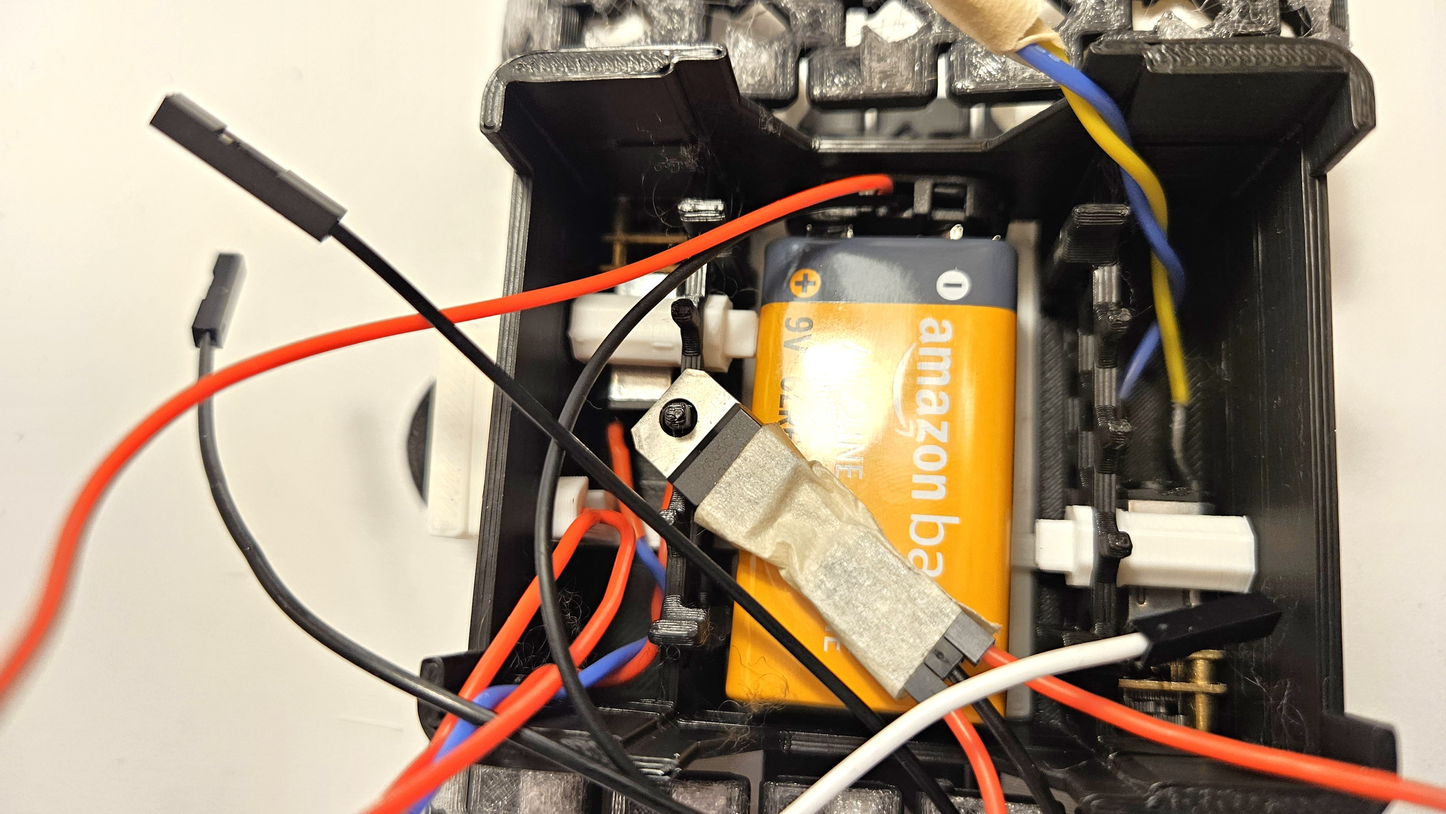
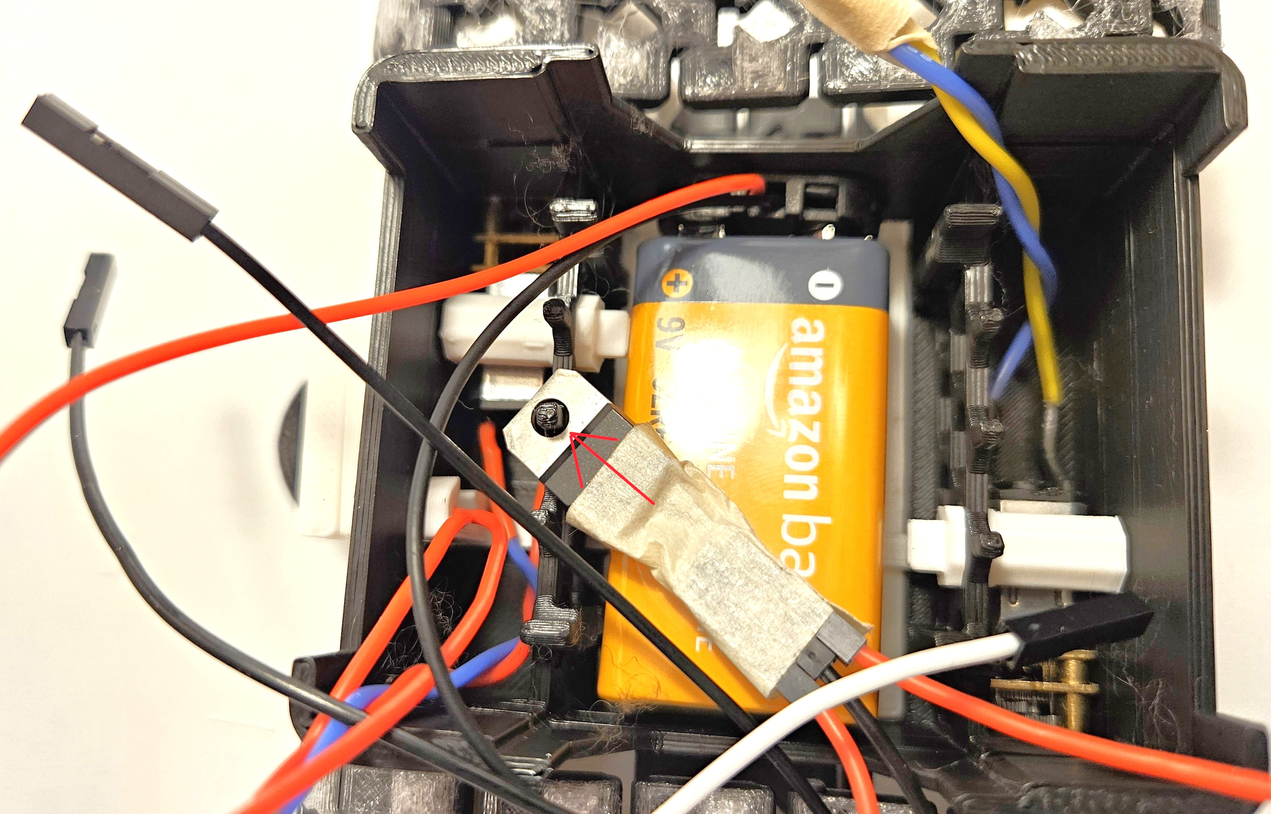
finish power.md updates for v3

diff --git a/lessons/assembly/power.md b/lessons/assembly/power.md
@@ -33,7 +33,7 @@ Make a note of which direction is off and on.  Off will be when the switch is in
   
 Now push the power switch and wires into the rectangular slot, pushing the red wires against the angled piece.  The red wires should make a sharp right angle inside the switch holder.  This helps hold the wires in place.  This can be a tight fit. See more instructions after picture if struggling.
 
-<img alt="Switch in switch holder" src="../images/assembly/v3/PowerSwitchInstall3.jpg" width="500"/>
+<img alt="Switch in switch holder" src="../images/assembly/v3/PowerSwitchInstall3.jpg" width="250"/>
 
 Fitting the power switch in the switch holder can be a very tight fit.  Borrow a pair of pliers or use two strong thumbs on each side of the black switch to push it into place.
 
@@ -86,7 +86,7 @@ At this time, make sure the switch is turned off.  To turn off the power switch,
 - 10cm White Female to Female wire
 - 10cm 3 way connector
 
-<img alt="Positive Power Parts" src="../images/assembly/v3/PositivePowerParts.jpg" width="500"/>
+<img alt="Positive Power Parts" src="../images/assembly/v3/PositivePowerParts.jpg" width="250"/>
 
 Take the two 10cm female to female wires and connect them to the 3 way connector.     
 
@@ -115,7 +115,7 @@ Grab the voltage regulator and 10cm red female to female wire.
 
 The 3 pins from left to right are our input, ground, and output as seen in the picture above.
 
-Connect your red female to female wire to the right most pin.  If the wire is too tight to fit on or too lose try rotating the wire connector 90 degrees and re-insert the wire onto the voltage regulator pin.  Try to push the wire up onto the pin as much as you can but be careful not to bend the pins on the voltage regulator or poke yourself. 
+Connect your red female to female wire to the right most pin.  If the wire is too tight to fit on or too lose try rotating the wire connector 90 degrees and re-insert the wire onto the voltage regulator pin.  Try to push the wire up onto the pin as much as you can but be careful not to bend the pins on the voltage regulator or poke yourself. If you do slightly bend the pins, it's not a big deal, just gently bend them back flat.  Constantly bending the pins can weaken them.
 
 <img alt="Voltage Regulator Right wire connected" src="../images/assembly/v3/VoltageRegulatorPositive.jpg" width="250"/>
 
@@ -136,26 +136,29 @@ Now wrap the tape around to cover the back as well as seen in the image below.  
 <img alt="Voltage Regulator input wire connected" src="../images/assembly/v3/VoltageRegulatorBatteryConnnector5.jpg" width="500" />
 
 
-<img alt="Chassis, Voltage Reg, Y wire" src="../images/assembly/power_regulator.jpg" width="500"/>
+### Battery Install
 
-Connect the single end of the red Y wire to the far right of the voltage regulator.  This is the voltage output pin.  Push the female end up as far as you can, usually up to where the pin enlarges.
-Be careful not to bend or break the pins on the voltage regulator.  If you do slightly bend the pins, it's not a big deal, just gently bend them back flat.  Constantly bending the pins can weaken them.
+Make sure your power switch is still in the off position. Grab your battery and connect it to the battery connector:
 
-<img alt="Voltage Reg, Y wire" src="../images/assembly/power_regulator_positive_y.jpg" width="500"/>
+<img alt="Battery Connected" src="../images/assembly/v3/Battery1.jpg" width="500" />
 
-Connect one of the black ground wires from the battery connector to the middle pin.
+Now let's go ahead and install the battery.  While the top pico plate is off, it's easiest to install the battery through the top.    
+<details>
+<summary>Removing the Battery</summary>
+After your Rover is built, you will be accessing the battery through the bottom by removing switch key. To allow the battery door to come off.  
+</details>  
 
-<img alt="Voltage Reg Ground" src="../images/assembly/power_regulator_negative_wire.jpg" width="500"/>
+Put the battery flat on top of the battery door as you see in the picture below.  Make sure no wires are under the battery.
 
-Connect the 10cm red wire that comes from the power switch to the far left pin on the regulator.
+<img alt="Battery In Chassis" src="../images/assembly/v3/Battery2.jpg" width="500" />
 
-<img alt="Voltage Reg Input" src="../images/assembly/power_regulator_power_switch.jpg" width="500"/>
 
-<img alt="Voltage Reg Input" src="../images/assembly/power_regulator_power_switch_2.jpg" width="500"/>
+Now move the voltage regulator on top of the battery.  Use one of the pegs on the chassis to set the voltage regulator on. Allow the peg from the chassis to go through the hole in the top of the voltage regulator as seen below. Make sure the voltage regulator is flat with it's taped pins over the battery.  
 
-Carefully move the voltage regulator on top of the battery without disconnecting any of the wires.  The hole on top of the voltage regulator should go on one of the posts beside the battery.
+<img alt="Voltage Regulator On Battery" src="../images/assembly/v3/Battery3.jpg" width="500" />
 
-<img alt="Voltage Reg In Chassis" src="../images/assembly/power_regulator_in_chassis.jpg" width="500"/>
+This completes this part of the installation.  If possible use a voltmeter to test
+
 
 [back](https://github.com/javaplus/MadScientist/blob/main/lessons/assembly/wheels.md)
 
